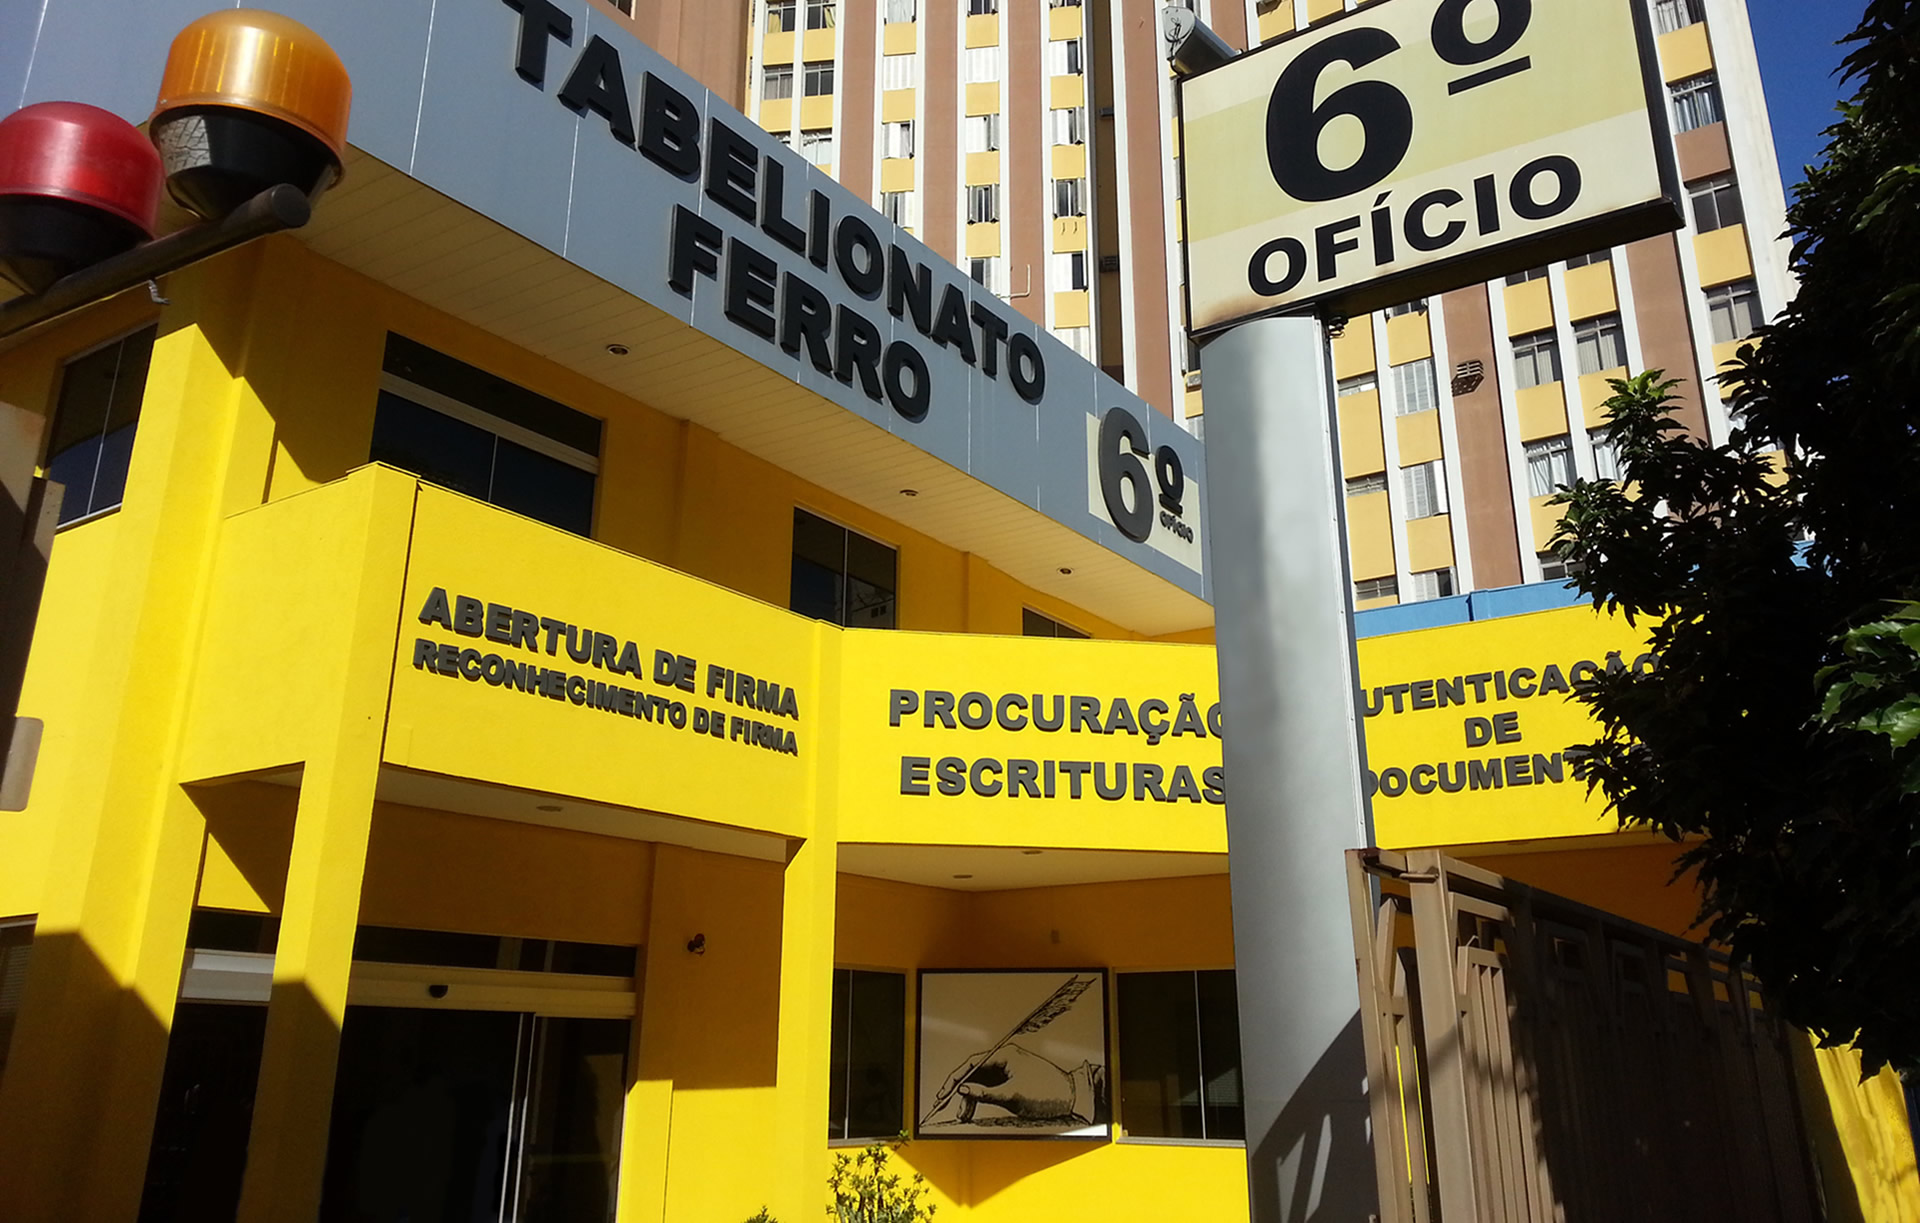
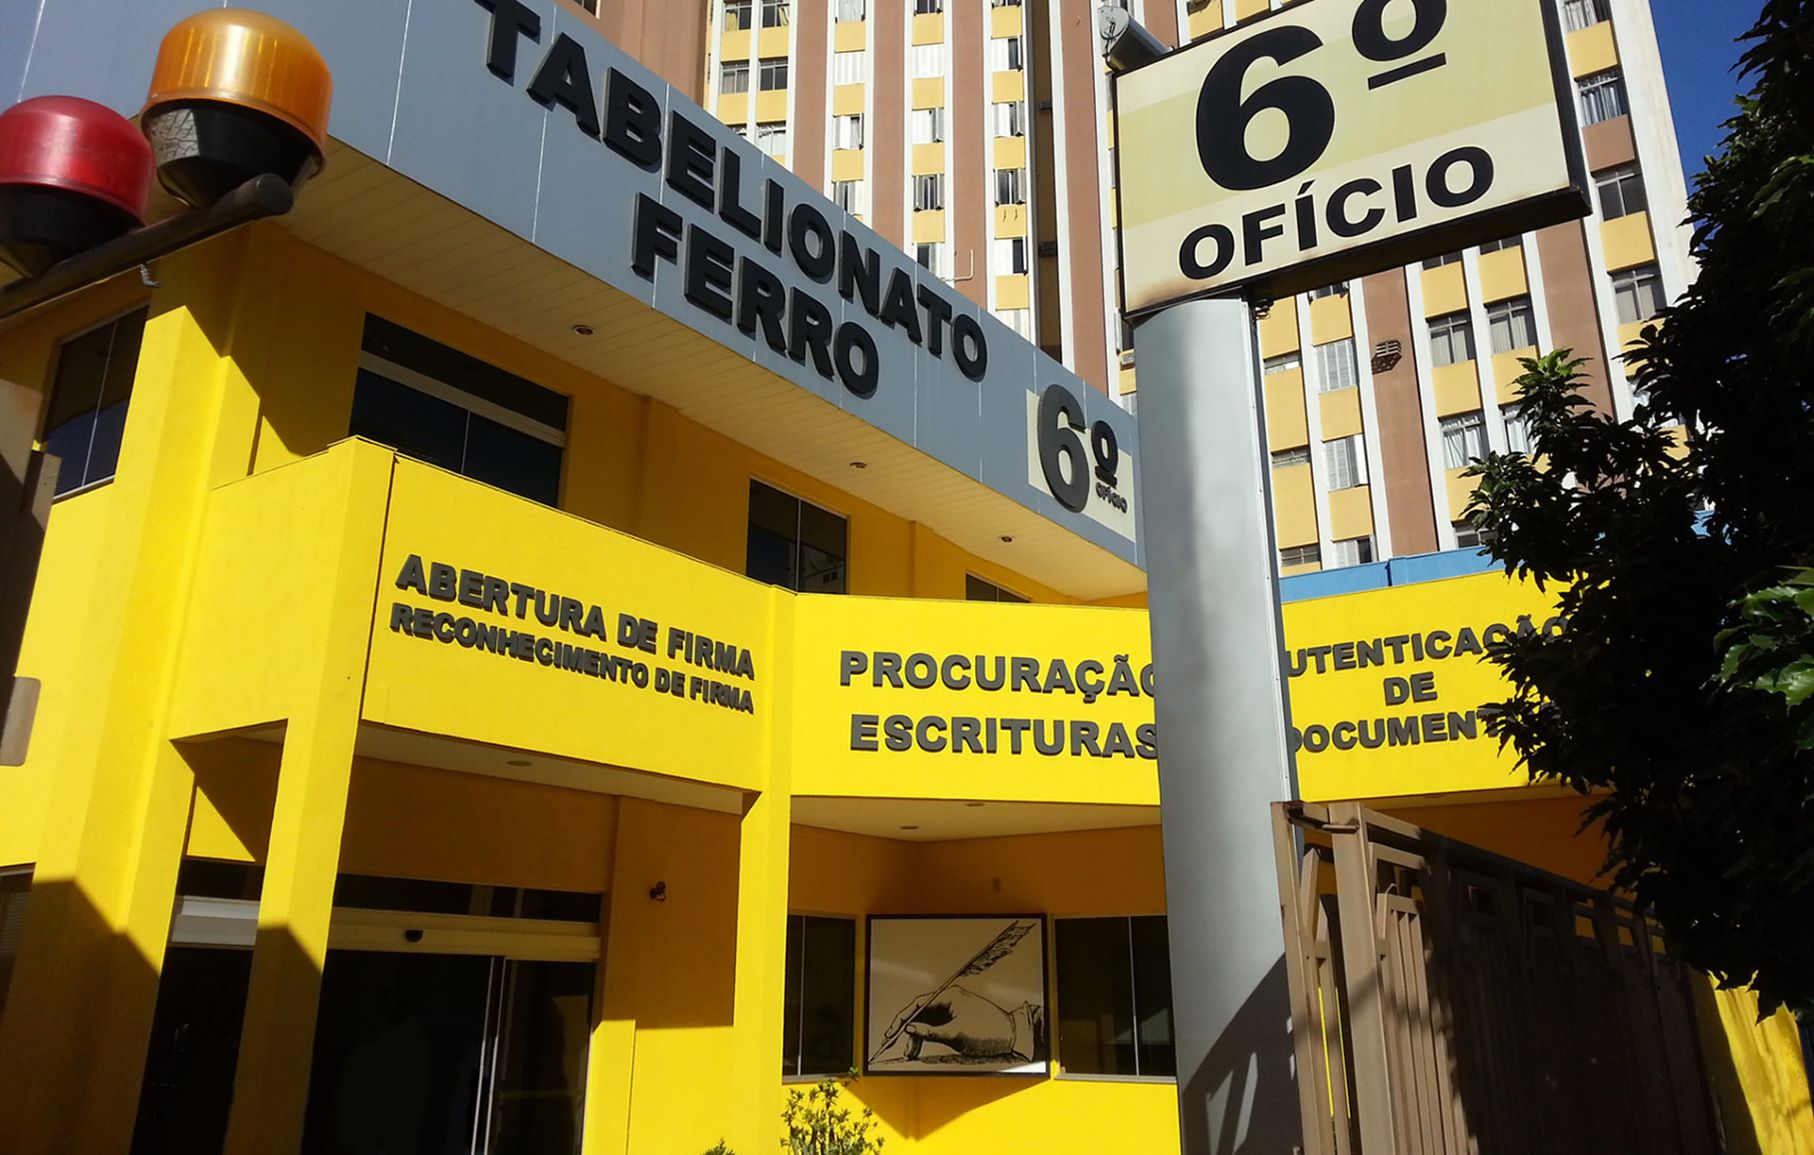
Otimização de imagens

diff --git a/src/_assents/css/index.css b/src/_assents/css/index.css
@@ -1,11 +1,6 @@
-body {
-  margin: 0;
-  padding: 0;
-  font-family: 'Segoe UI', 'Roboto', 'Oxygen', 'Ubuntu', 'Cantarell', 'Fira Sans', 'Droid Sans', 'Helvetica Neue',
-    sans-serif;
-  -webkit-font-smoothing: antialiased;
-  -moz-osx-font-smoothing: grayscale;
-}
+@import url('@/_assents/icons/themify/themify-icons.css');
+@import url('https://fonts.googleapis.com/css2?family=Roboto:wght@300;400;500;700;900&display=swap');
+
 
 /*-----------------------------
  CSS INDEX
@@ -23,17 +18,23 @@ body {
 * ----------------------------------------
 */
 
-@import url('@/_assents/icons/themify/themify-icons.css');
-@import url('https://fonts.googleapis.com/css?family=Muli:300,400,500,700,900');
-
 
 
 /*--------------------
  GLOBAL
 -----------------*/
+body {
+    margin: 0;
+    padding: 0;
+    margin: 0;
+    background-color: #fff;    
+}
 
-html {
-    font-family: 'Segoe UI', Helvetica, sans-serif;
+/*----------------
+ TYPOGRAPHY
+-----------------*/
+
+html{
     line-height: 1.15;
     -webkit-text-size-adjust: 100%;
     -ms-text-size-adjust: 100%;
@@ -41,20 +42,16 @@ html {
     -webkit-tap-highlight-color: rgba(0, 0, 0, 0)
 }
 
-body {
-    font-family: 'Muli', sans-serif;
+body{
+    -webkit-font-smoothing: antialiased;
+    -moz-osx-font-smoothing: grayscale;
+    font-family: 'Roboto', sans-serif;
     font-size: 15px;
     line-height: 1.75;
-    margin: 0;
-    text-align: left;
-    background-color: #fff;
-    font-weight: 400;
     color: #6c757d;
+    text-align: left;
+    font-weight: 400;
 }
-
-/*----------------
- TYPOGRAPHY
------------------*/
 
 .h1,
 .h2,
@@ -68,7 +65,7 @@ h3,
 h4,
 h5,
 h6 {
-    font-family: 'Muli', sans-serif;
+    font-family: 'Roboto', sans-serif;
     font-weight: 700;
     line-height: 1.35;
     margin-bottom: .5rem;
@@ -106,21 +103,11 @@ h6 {
     font-size: .75rem;
 }
 
-.lead {
-    font-size: 1.0625rem;
-    font-weight: 300;
-}
-
 .font-weight-500 {
     font-weight: 500 !important;
 }
 
-.section-title {
-    font-size: 35px;
-    font-weight: 700;
-    text-transform: capitalize;
-    margin-bottom: 15px;
-}
+
 
 
 @media (max-width:767.98px) {
@@ -196,11 +183,7 @@ img {
     padding: 6rem 0;
 }
 
-@media (min-width:768px) {
-    .section {
-        padding: 7.5rem 0
-    }
-}
+
 
 .section-top {
     padding-top: 8.125rem;
@@ -560,11 +543,6 @@ img {
     line-height: 65px;
 }
 
-.main-banner p.lead,
-.banner-content p.lead {
-    margin-bottom: 2.5rem !important;
-}
-
 .info-block {
     min-width: 93px
 }
@@ -782,10 +760,6 @@ h5.subtitle {
 .overlay.feature-overlay {
     background-image: linear-gradient(30deg, rgba(121, 110, 255, 0.95) 0%, rgba(33, 200, 122, 0.95) 100%);
     opacity: .9;
-}
-
-#projects-wrap p.lead {
-    color: #a9a9a9 !important;
 }
 
 #projects {
@@ -1412,25 +1386,7 @@ PRELOADER
     }
 }
 
-@media (max-width: 991px) {
-    .section-title {
-        font-size: 30px;
-    }
 
-    .background-text {
-        font-size: 60px;
-    }
-}
-
-@media (max-width: 576px) {
-    .section-title {
-        top: 0;
-    }
-
-    .background-text {
-        display: none;
-    }
-}
 
 .blog-content {
     text-align: justify;
@@ -1450,10 +1406,3 @@ ul.li-hifen > li {
 ul.li-hifen > li:before {
     content: "- "
 }
-
-.footer-links-2 {
-    padding-left: 0;
-    list-style-type: none;
-    color: #888888
-}
-

diff --git a/src/_assents/css/responsive.css b/src/_assents/css/responsive.css
@@ -145,11 +145,15 @@
     .contact-info-block {
         margin-bottom: 25px;
     }
-
-    #work-wrap p.lead {
-        margin-bottom: 40px;
+    
+    .section {
+        padding: 7.5rem 0
     }
+    
+    
 }
+
+
 
 
 
@@ -292,9 +296,6 @@
         margin-bottom: 25px;
     }
 
-    #work-wrap p.lead {
-        margin-bottom: 40px;
-    }
 
 }
 
@@ -475,11 +476,7 @@
         margin-bottom: 25px;
     }
 
-    #work-wrap p.lead {
-        margin-bottom: 40px;
-    }
 }
-
 
 /* Custom, iPhone Retina */
 @media (min-width : 320px) and (max-width: 478px) {
@@ -674,10 +671,6 @@
 
     .contact-info-block {
         margin-bottom: 25px;
-    }
-
-    #work-wrap p.lead {
-        margin-bottom: 40px;
     }
     
     .size-1 {

diff --git a/src/components/Carousel/Carousel.js b/src/components/Carousel/Carousel.js
@@ -14,7 +14,7 @@ export default function Carousel () {
             <div className="carousel-inner" id="innerCarousel">
                 <div className="carousel-item active">
                     <img height="100%" src={banner_0} alt="..." />
-                    <div class="carousel-caption d-md-block">
+                    <div className="carousel-caption d-md-block">
                         <p className='d-inline-flex h3 text-muted bg-white'>Onde obter um certificado digital notarializado?</p>
                         <p className='d-inline-flex h4 text-muted bg-white'>Dirija-se a um Tabelionato de Notas mais próximo e solicite a expedição do seu certificado notarial. É gratuito!</p>
                     </div>

diff --git a/src/containers/Menu/Menu.js b/src/containers/Menu/Menu.js
@@ -77,7 +77,7 @@ export default function Menu () {
             <Modal
                 modalId="ConsultaSelo"
                 title="Consulta de Selo Eletrônico"
-                content={<iframe src="https://www.tjms.jus.br/sig-ex/pesquisaSelo.xhtml" height="400px" width="100%" title="consulta selo"></iframe>}
+                content={<iframe src="https://www.tjms.jus.br/sig-ex/pesquisaSelo.xhtml" min-height="400px" height="400px" width="100%" title="consulta selo"></iframe>}
             />
 
             <Modal

diff --git a/src/containers/Menu/NavItem/NavItem.js b/src/containers/Menu/NavItem/NavItem.js
@@ -2,7 +2,7 @@ export default function NavItem (props) {
    let target = props.target === "true" ? "_black" : "_self";
    return (
       <li className="nav-item ">
-         <a href={props.href} className="nav-link js-scroll-trigger" target={target}>
+         <a href={props.href} className="nav-link js-scroll-trigger" target={target} rel="noopener noreferrer">
             {props.name}
          </a>
       </li>

diff --git a/src/components/Section/Title/Title.css b/src/components/Section/Title/Title.css
@@ -1,0 +1,19 @@
+@media (max-width: 991px) {
+    .section-title {
+        font-size: 30px;
+    }
+}
+
+@media (max-width: 576px) {
+    .section-title {
+        top: 0;
+    }
+}
+
+
+.section-title {
+    font-size: 2rem;
+    font-weight: 700;
+    text-transform: capitalize;
+    margin-bottom: 15px;
+}

diff --git a/src/containers/About/About.js b/src/containers/About/About.js
@@ -1,4 +1,4 @@
-import predio from "@/_assents/img/banner/predio-768x1151.jpg";
+import predio from "@/_assents/img/banner/predio-601x900.jpg";
 import '@/_assents/css/responsive.css';
 
 import Section from "@/components/Section/Section";

diff --git a/src/components/Modal/Modal.css b/src/components/Modal/Modal.css
@@ -6,3 +6,8 @@ div.modal-body iframe {
     width: 100%;
     min-height: 60vmin;
 }
+
+.modal-body li {
+    padding-right: 1rem;
+    list-style-type: circle;
+}

diff --git a/src/containers/Footer/Footer.css b/src/containers/Footer/Footer.css
@@ -3,3 +3,9 @@
     position: absolute;
     margin-top: 14px;
 }
+
+.footer-links-2 {
+    padding-left: 0;
+    list-style-type: none;
+    color: #888888
+}

diff --git a/src/components/Section/Title/Title.js b/src/components/Section/Title/Title.js
@@ -1,4 +1,5 @@
 import '@/_assents/css/responsive.css';
+import './Title.css';
 
 export default function Title (props) {
     return (
